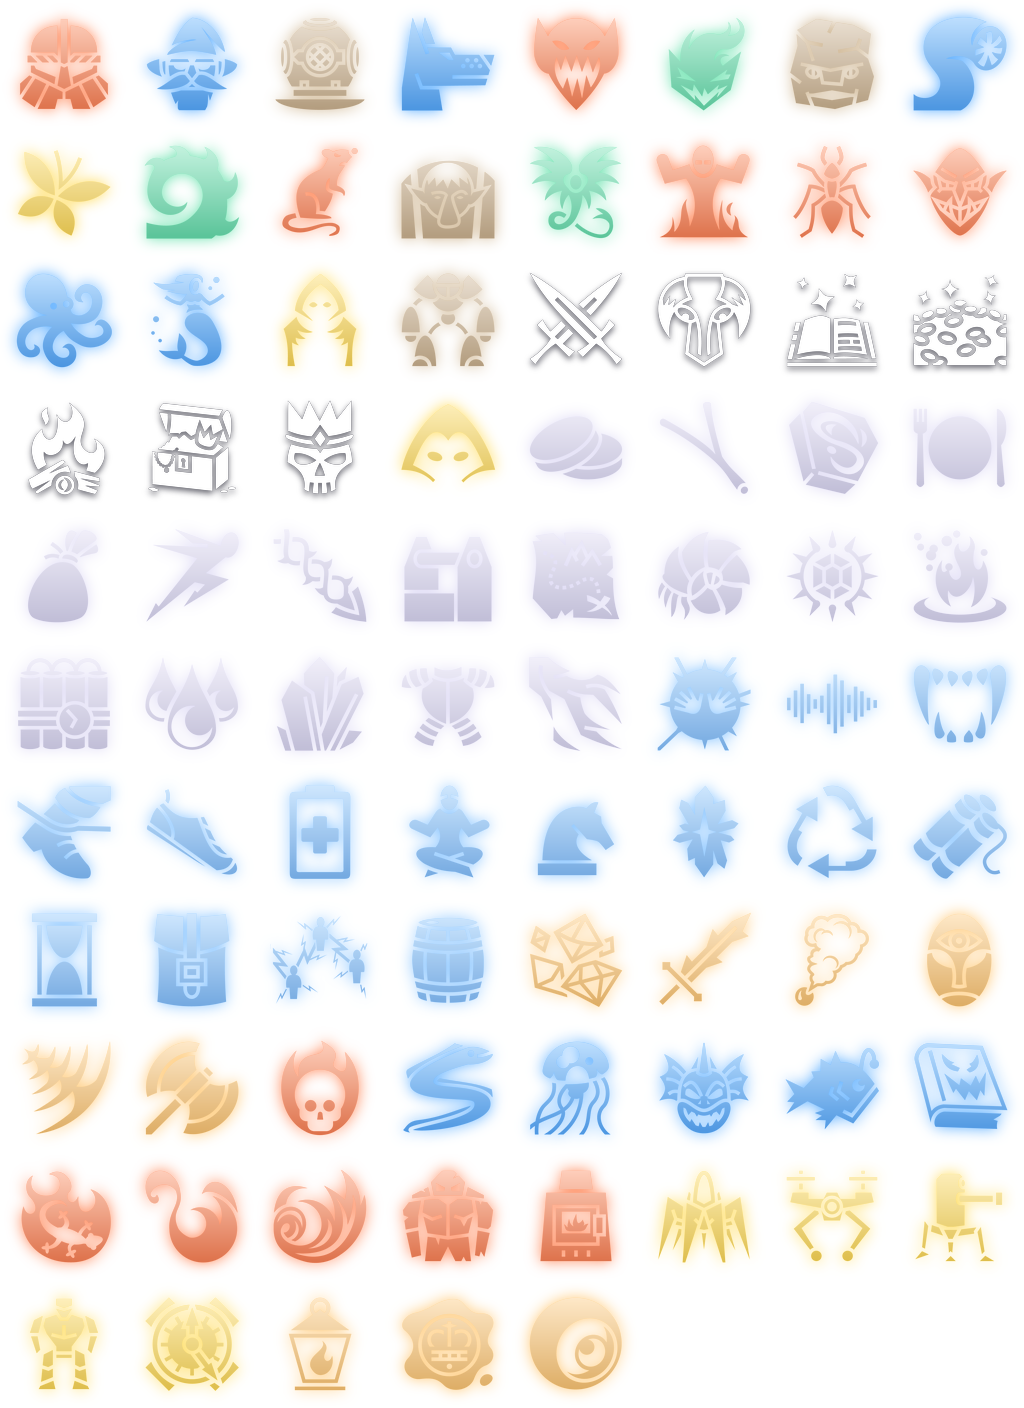
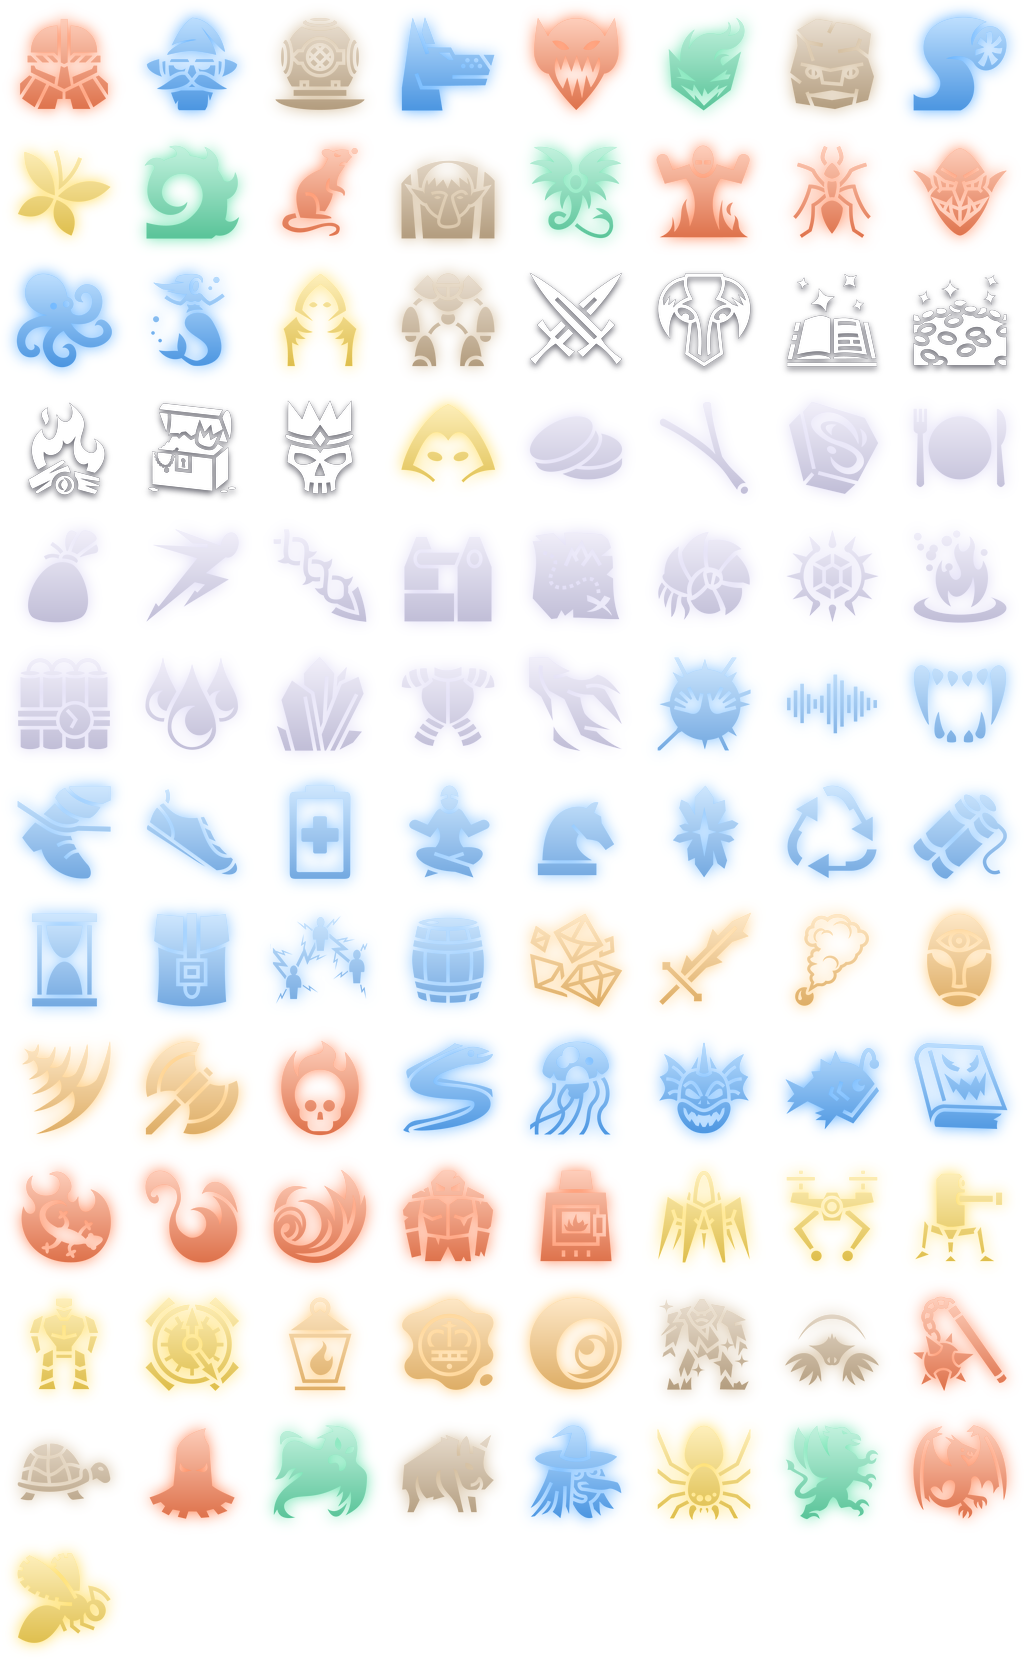
More elites and bosses on every floor, lords lurk on the title
Each floor now draws from its own three elites and four bosses: twelve new
foes with new glyphs, each bending one rule, tuned to sit inside the old
ones' spread in the bot probe (which now reports each elite and boss).
The title screen's empty sides show the bosses of The Below, faint and
breathing, and the map's boss list keeps each name whole.

diff --git a/src/data.rs b/src/data.rs
@@ -577,26 +577,42 @@ pub static NORMALS: &[EnemyDef] = &[
     foe("Ash Rat", HD + 10, "Snatches one of your gems as its turn starts.", 10, 2, &[Ember, Gale], |m| m.pilfer = 1),
 ];
 
-pub static ELITES: &[EnemyDef] = &[
-    foe("The Quarrymaster", HD + 11, "Starts with 8 shield. Every hit deals 1 less.", 45, 2, &[Stone, Ember, Spark], |m| {
-        m.start_shield = 8;
-        m.armor = 1
-    }),
-    foe("Gale Duchess", HD + 12, "One extra pick. The first rite each turn only grazes her, for half damage.", 38, 2, &[Gale, Tide, Spark], |m| {
-        m.reveals = 1;
-        m.evade = 1;
-        m.graze = 1
-    }),
-    foe("Kiln Tyrant", HD + 13, "Its rites set you burning, and it gains +1 power every turn.", 42, 2, &[Ember, Gale, Stone], |m| {
-        m.rite_burn = 1;
-        m.burn_bonus = 1;
-        m.enrage = 1
-    }),
+/// Three per floor; each elite node rolls one from its floor's.
+pub static ELITES: &[&[EnemyDef]] = &[
+    &[
+        foe("The Quarrymaster", HD + 11, "Starts with 8 shield. Every hit deals 1 less.", 45, 2, &[Stone, Ember, Spark], |m| {
+            m.start_shield = 8;
+            m.armor = 1
+        }),
+        foe("Crystal Warden", HD + 85, "Each crystal it mines gives it 4 shield.", 42, 2, &[Stone, Tide, Spark], |m| m.claim_shield = 4),
+        foe("The Burrower", HD + 86, "2 more faults in your boards.", 44, 2, &[Stone, Gale, Ember], |m| m.foe_mines = 2),
+    ],
+    &[
+        foe("Gale Duchess", HD + 12, "One extra pick. The first rite each turn only grazes her, for half damage.", 38, 2, &[Gale, Tide, Spark], |m| {
+            m.reveals = 1;
+            m.evade = 1;
+            m.graze = 1
+        }),
+        foe("Flail Sergeant", HD + 87, "Each of its rites after the first in a turn hits 5 harder.", 40, 3, &[Ember, Stone, Spark], |m| m.chain = 5),
+        foe("Iron Tortoise", HD + 88, "Gains 4 shield each turn, and its shield never wears off.", 40, 2, &[Stone, Tide, Gale], |m| {
+            m.shield_turn = 4;
+            m.keep_shield = 1
+        }),
+    ],
+    &[
+        foe("Kiln Tyrant", HD + 13, "Its rites set you burning, and it gains +1 power every turn.", 42, 2, &[Ember, Gale, Stone], |m| {
+            m.rite_burn = 1;
+            m.burn_bonus = 1;
+            m.enrage = 1
+        }),
+        foe("The Executioner", HD + 89, "Its first rite each turn hits double.", 42, 2, &[Ember, Spark, Stone], |m| m.first_pct = 100),
+        foe("The Shade", HD + 90, "The first rite each turn misses it.", 40, 2, &[Gale, Tide, Spark], |m| m.evade = 1),
+    ],
 ];
 
-/// Two per floor; each map rolls which one waits at the end.
-pub static BOSSES: &[[EnemyDef; 2]] = &[
-    [
+/// Four per floor; each map rolls which one waits at the end.
+pub static BOSSES: &[&[EnemyDef]] = &[
+    &[
         foe("Minelayer Queen", HD + 14, "1 more fault in your boards. Gains a gem whenever your ground caves in.", 50, 2, &[Ember, Stone, Spark], |m| {
             m.foe_mines = 1;
             m.foe_mine_gift = 1
@@ -606,8 +622,13 @@ pub static BOSSES: &[[EnemyDef; 2]] = &[
             m.regen = 2;
             m.shield_turn = 2
         }),
+        foe("Old Tusker", HD + 91, "Starts with 6 shield. Below half HP, +2 power.", 46, 2, &[Stone, Ember, Gale], |m| {
+            m.start_shield = 6;
+            m.desperate = 2
+        }),
+        foe("The Fen Crone", HD + 92, "Each crystal it mines heals it 2.", 44, 2, &[Tide, Gale, Stone], |m| m.claim_heal = 2),
     ],
-    [
+    &[
         foe("The Sapper King", HD + 15, "Starts with 12 shield. Snatches one of your gems each turn.", 105, 3, &[Ember, Gale, Spark], |m| {
             m.start_shield = 12;
             m.pilfer = 1
@@ -617,8 +638,16 @@ pub static BOSSES: &[[EnemyDef; 2]] = &[
             m.graze = 1;
             m.lifesteal_pct = 30
         }),
+        foe("The Broodmother", HD + 93, "Hits you for 10 as she steps in. 1 more fault in your boards.", 100, 3, &[Spark, Stone, Ember], |m| {
+            m.opening = 10;
+            m.foe_mines = 1
+        }),
+        foe("Storm Roc", HD + 94, "Its rites deal +25%. Jams your surge at 5.", 96, 3, &[Gale, Spark, Tide], |m| {
+            m.rite_pct = 25;
+            m.foe_surge_cap = 5
+        }),
     ],
-    [
+    &[
         foe("Null Cartographer", HD + 18, "One extra pick, 3 of its cracks propped up. Jams your surge at 6.", 135, 4, &[Spark, Gale, Ember], |m| {
             m.reveals = 1;
             m.scouts = 3;
@@ -627,6 +656,14 @@ pub static BOSSES: &[[EnemyDef; 2]] = &[
         foe("The Deep Engine", HD + 19, "Iron plating: every hit deals 2 less. +1 power every turn.", 125, 3, &[Stone, Ember, Tide], |m| {
             m.armor = 2;
             m.enrage = 1
+        }),
+        foe("The Wyrm Below", HD + 95, "Its rites set you burning. Below half HP, +3 power.", 130, 3, &[Ember, Gale, Stone], |m| {
+            m.rite_burn = 2;
+            m.desperate = 3
+        }),
+        foe("The Hive Queen", HD + 96, "One extra pick. Each of her rites after the first in a turn hits 8 harder.", 135, 4, &[Spark, Ember, Gale], |m| {
+            m.reveals = 1;
+            m.chain = 8
         }),
     ],
 ];
@@ -775,7 +812,7 @@ pub static ENDINGS: &[Ending] = &[
 
 /// True for any boss, a floor's or an ending's.
 pub fn is_boss(name: &str) -> bool {
-    BOSSES.iter().flatten().chain(ENDINGS.iter().map(|e| &e.boss)).any(|d| d.name == name)
+    BOSSES.iter().flat_map(|f| f.iter()).chain(ENDINGS.iter().map(|e| &e.boss)).any(|d| d.name == name)
 }
 
 /// The places on the overworld, unlocked one after another by winning the one before.

diff --git a/src/run.rs b/src/run.rs
@@ -100,7 +100,7 @@ pub struct Run {
     /// the one blessing held, by index in `BLESSINGS`
     pub blessing: Option<usize>,
     pub floor: usize,
-    /// which of the floor's two bosses waits at the end
+    /// which of the floor's bosses waits at the end
     pub boss: usize,
     /// this floor's rule twist, by index in `TWISTS`
     pub twist: usize,
@@ -366,7 +366,7 @@ impl Run {
     }
 
     fn gen_map(&mut self) {
-        self.boss = self.rng.below(2);
+        self.boss = self.rng.below(BOSSES[self.floor.min(BOSSES.len() - 1)].len());
         self.twist = if EXPEDITIONS[self.exp].curses || self.daily.is_some() {
             let curses: Vec<usize> = (0..TWISTS.len()).filter(|&i| TWISTS[i].tone < 0).collect();
             curses[self.rng.below(curses.len())]
@@ -475,7 +475,10 @@ impl Run {
                     NodeKind::Elite => {
                         let elite = match self.ending() {
                             Some(e) => &ENDINGS[e].elite,
-                            None => &ELITES[self.rng.below(ELITES.len())],
+                            None => {
+                                let pool = ELITES[self.floor.min(ELITES.len() - 1)];
+                                &pool[self.rng.below(pool.len())]
+                            }
                         };
                         vec![self.random_normal(), self.enemy(elite, true, 2, 100)]
                     }
@@ -880,8 +883,8 @@ mod tests {
     }
 
     thread_local! {
-        /// per fight: (node kind, [loads, breaks, hero HP lost, turns])
-        static PROBE: std::cell::RefCell<Vec<(usize, [usize; 4])>> = const { std::cell::RefCell::new(Vec::new()) };
+        /// per fight: (node kind, last foe faced, hero won, [loads, breaks, hero HP lost, turns])
+        static PROBE: std::cell::RefCell<Vec<(usize, String, bool, [usize; 4])>> = const { std::cell::RefCell::new(Vec::new()) };
     }
 
     /// Prints how much enemies get done per fight kind. `cargo test --release probe_enemy -- --ignored --nocapture`
@@ -896,10 +899,21 @@ mod tests {
         PROBE.with(|p| {
             let p = p.borrow();
             for (kind, name) in [(0, "normal"), (1, "elite"), (5, "boss"), (6, "shrine")] {
-                let rows: Vec<&[usize; 4]> = p.iter().filter(|r| r.0 == kind).map(|r| &r.1).collect();
+                let rows: Vec<&[usize; 4]> = p.iter().filter(|r| r.0 == kind).map(|r| &r.3).collect();
                 let sum = |k: usize| rows.iter().map(|r| r[k]).sum::<usize>() as f32;
                 let n = rows.len().max(1) as f32;
                 println!("{name:7} fights {:5}  loads/fight {:.2}  broken {:.0}%  hp lost/fight {:.1}  turns {:.1}", rows.len(), sum(0) / n, 100.0 * sum(1) / sum(0).max(1.0), sum(2) / n, sum(3) / n);
+            }
+            // each elite and boss on its own, by the foe the fight ended on
+            let mut names: Vec<(usize, &str)> = p.iter().filter(|r| r.0 == 1 || r.0 == 5).map(|r| (r.0, r.1.as_str())).collect();
+            names.sort();
+            names.dedup();
+            for (kind, who) in names {
+                let rows: Vec<_> = p.iter().filter(|r| r.0 == kind && r.1 == who).collect();
+                let n = rows.len() as f32;
+                let won = rows.iter().filter(|r| r.2).count() as f32;
+                let avg = |k: usize| rows.iter().map(|r| r.3[k]).sum::<usize>() as f32 / n;
+                println!("{:5} {who:20} fights {:4}  hero wins {:3.0}%  hp lost {:5.1}  turns {:4.1}", if kind == 1 { "elite" } else { "boss" }, rows.len(), 100.0 * won / n, avg(2), avg(3));
             }
         });
     }
@@ -928,7 +942,7 @@ mod tests {
                     let kind = run.pos.map_or(0, |(c, r)| run.map[c][r].kind as usize);
                     let count = |f: fn(&crate::battle::Event) -> bool| b.events.iter().filter(|e| f(e)).count();
                     let row = [count(|e| matches!(e, crate::battle::Event::Load)), count(|e| matches!(e, crate::battle::Event::Break)), (hp0 - b.f[0].hp).max(0) as usize, b.turn];
-                    PROBE.with(|p| p.borrow_mut().push((kind, row)));
+                    PROBE.with(|p| p.borrow_mut().push((kind, b.f[1].name.to_string(), b.won(), row)));
                     run.finish_battle(&b)
                 }
                 Stage::Pick(options) => {

diff --git a/src/ui.rs b/src/ui.rs
@@ -1528,6 +1528,15 @@ fn rune_circle(c: Vec2, rx: f32, ry: f32, col: Color, a: f32) {
 /// The title menu: Play goes to the overworld, Back quits the game.
 pub fn title() -> Option<Go> {
     let t = now() as f32;
+    // the lords of The Below watch from the dark either side, the nearer ones larger and less faint
+    let lurk = [(150.0, 150.0, 90.0), (70.0, 330.0, 70.0), (250.0, 310.0, 110.0), (120.0, 500.0, 100.0), (270.0, 580.0, 80.0), (60.0, 660.0, 64.0)];
+    for (k, d) in BOSSES.iter().flat_map(|f| f.iter()).enumerate().take(12) {
+        let (x, y, size) = lurk[k / 2];
+        let x = if k % 2 == 0 { x } else { 1280.0 - x };
+        let bob = (t * 0.6 + k as f32 * 1.3).sin() * 4.0;
+        let breathe = 0.75 + 0.25 * (t * 0.4 + k as f32).sin();
+        sprite(d.sprite, x - size / 2.0, y - size / 2.0 + bob, size, fade(INK, size / 110.0 * 0.2 * breathe));
+    }
     // the heroes waiting in a summoning circle
     rune_circle(vec2(640.0, 640.0), 280.0, 40.0, ACCENT, 0.28);
     for k in 0..4 {
@@ -1779,7 +1788,7 @@ pub fn world(save: &Save, pick: &mut (usize, usize), today: u64) -> Option<Go> {
         let prev = EXPEDITIONS[shown - 1].name.replace(' ', "\u{a0}");
         col.block(2, None, [format!("Win {prev} to open the way here.")], INK);
     } else {
-        let lords = BOSSES.iter().map(|pair| pair.iter().map(|d| d.name).collect::<Vec<_>>().join(" or "));
+        let lords = BOSSES.iter().map(|pair| pair.iter().map(|d| d.name.replace(' ', "\u{a0}")).collect::<Vec<_>>().join(", "));
         col.block(1, Some("LORDS BELOW"), lords, INK);
     }
     col.draw();

diff --git a/assets/sigils/build_sigils.py b/assets/sigils/build_sigils.py
@@ -43,6 +43,14 @@ SIGILS = [
     (["spider-bot"], SPARK), (["delivery-drone"], SPARK), (["walking-turret"], SPARK), (["battle-mech"], SPARK), (["clockwork"], SPARK),
     # 82-84 their keys: Brine Lantern, Cinder Seal, Clockwork Eye
     (["lantern-flame"], LEGEND), (["wax-seal"], LEGEND), (["brass-eye"], LEGEND),
+    # 85-90 more elites, two per floor: Crystal Warden, The Burrower; Flail Sergeant, Iron Tortoise;
+    # The Executioner, The Shade
+    (["ice-golem"], STONE), (["mole"], STONE), (["flail"], EMBER), (["tortoise"], STONE),
+    (["executioner-hood"], EMBER), (["spectre"], GALE),
+    # 91-96 more bosses, two per floor: Old Tusker, Fen Crone; The Broodmother, Storm Roc;
+    # The Wyrm Below, The Hive Queen
+    (["boar"], STONE), (["witch-face"], TIDE), (["spider-alt"], SPARK), (["griffin-symbol"], GALE),
+    (["wyvern"], EMBER), (["bee"], SPARK),
 ]
 CELL, COLS, GLYPH = 128, 8, 100
 

diff --git a/README.md b/README.md
@@ -382,17 +382,29 @@ details.
 | Static Moth | Normal | Jams your surge at 4 |
 | Thorn Creeper | Normal | Every rite that hits it deals 2 back |
 | Ash Rat | Normal, from floor 2 | Snatches one of your gems as its turn starts |
-| The Quarrymaster | Elite | Starts with 8 shield; every hit deals 1 less |
-| Gale Duchess | Elite | One extra pick; the first rite each turn only grazes her |
-| Kiln Tyrant | Elite | Its rites set you burning, and +1 power every turn |
+| The Quarrymaster | Elite, floor 1 | Starts with 8 shield; every hit deals 1 less |
+| Crystal Warden | Elite, floor 1 | Each crystal it mines gives it 4 shield |
+| The Burrower | Elite, floor 1 | 2 more faults in your boards |
+| Gale Duchess | Elite, floor 2 | One extra pick; the first rite each turn only grazes her |
+| Flail Sergeant | Elite, floor 2 | Each of its rites after the first in a turn hits 5 harder |
+| Iron Tortoise | Elite, floor 2 | Gains 4 shield each turn, and its shield never wears off |
+| Kiln Tyrant | Elite, floor 3 | Its rites set you burning, and +1 power every turn |
+| The Executioner | Elite, floor 3 | Its first rite each turn hits double |
+| The Shade | Elite, floor 3 | The first rite each turn misses it |
 | Minelayer Queen | Boss, floor 1 | 1 more fault in your boards; gains a gem whenever your ground caves in |
 | The Undertow | Boss, floor 1 | Heals 2 and gains 2 shield each turn |
+| Old Tusker | Boss, floor 1 | Starts with 6 shield; below half HP, +2 power |
+| The Fen Crone | Boss, floor 1 | Each crystal it mines heals it 2 |
 | The Sapper King | Boss, floor 2 | Starts with 12 shield; snatches one of your gems each turn |
 | The Tidecaller | Boss, floor 2 | The first rite each turn only grazes her; heals for 30% of damage dealt |
+| The Broodmother | Boss, floor 2 | Hits you for 10 as she steps in; 1 more fault in your boards |
+| Storm Roc | Boss, floor 2 | Its rites deal +25%; jams your surge at 5 |
 | Null Cartographer | Boss, floor 3 | One extra pick, 3 of its cracks propped up; jams your surge at 6 |
 | The Deep Engine | Boss, floor 3 | Every hit deals 2 less; +1 power every turn |
+| The Wyrm Below | Boss, floor 3 | Its rites set you burning; below half HP, +3 power |
+| The Hive Queen | Boss, floor 3 | One extra pick; each of her rites after the first in a turn hits 8 harder |
 
-Each floor's boss is one of its two, at random; the map shows which one waits for you.
+Each floor's elites come from its own three, and its boss is one of its four, at random; the map shows which one waits for you.
 
 ### Expeditions
 
